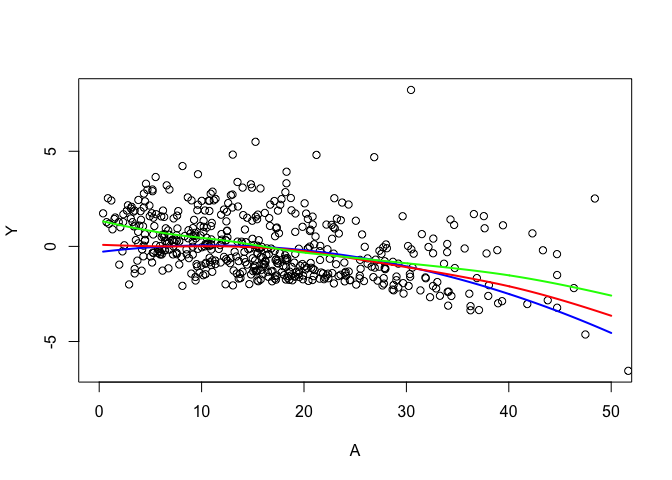
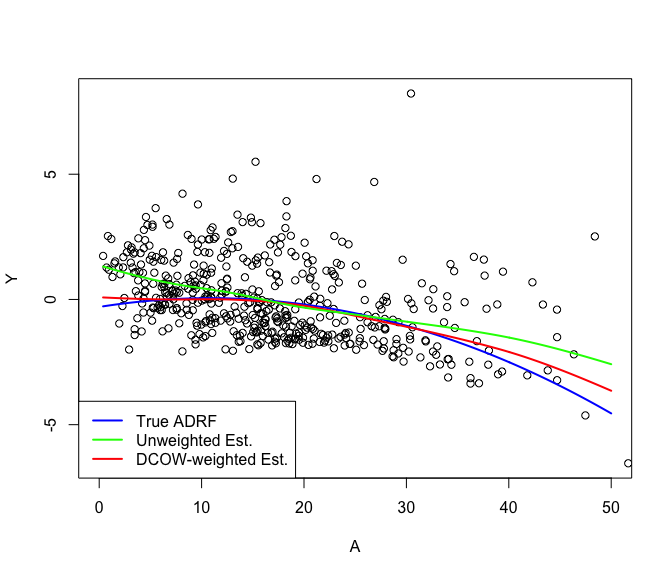
readme update

diff --git a/README.md b/README.md
@@ -84,7 +84,8 @@ adrf_hat <- weighted_kernel_est(A, y, dcows$weights, trt_vec)
 adrf_hat_unwtd <- weighted_kernel_est(A, y, rep(1, length(y)), trt_vec)
 
 ylims <- range(c(simdat$data$Y, simdat$true_adrf(trt_vec)))
-plot(x = simdat$data$A, y = simdat$data$Y, ylim = ylims, xlim = c(0,50),
+plot(x = simdat$data$A, y = simdat$data$Y, ylim = ylims, 
+     xlim = c(0,50),
      xlab = "A", ylab = "Y")
 ## true ADRF
 lines(x = trt_vec, y = simdat$true_adrf(trt_vec), col = "blue", lwd=2)
@@ -92,6 +93,8 @@ lines(x = trt_vec, y = simdat$true_adrf(trt_vec), col = "blue", lwd=2)
 lines(x = trt_vec, y = adrf_hat, col = "red", lwd=2)
 ## naive estimate
 lines(x = trt_vec, y = adrf_hat_unwtd, col = "green", lwd=2)
+legend("bottomleft", c("True ADRF", "Unweighted Est.", "DCOW-weighted Est."),
+       col = c("blue", "green", "red"), lty = 1, lwd = 2)
 ```
 
 <img src="man/figures/README-adrf-1.png" width="100%" />
